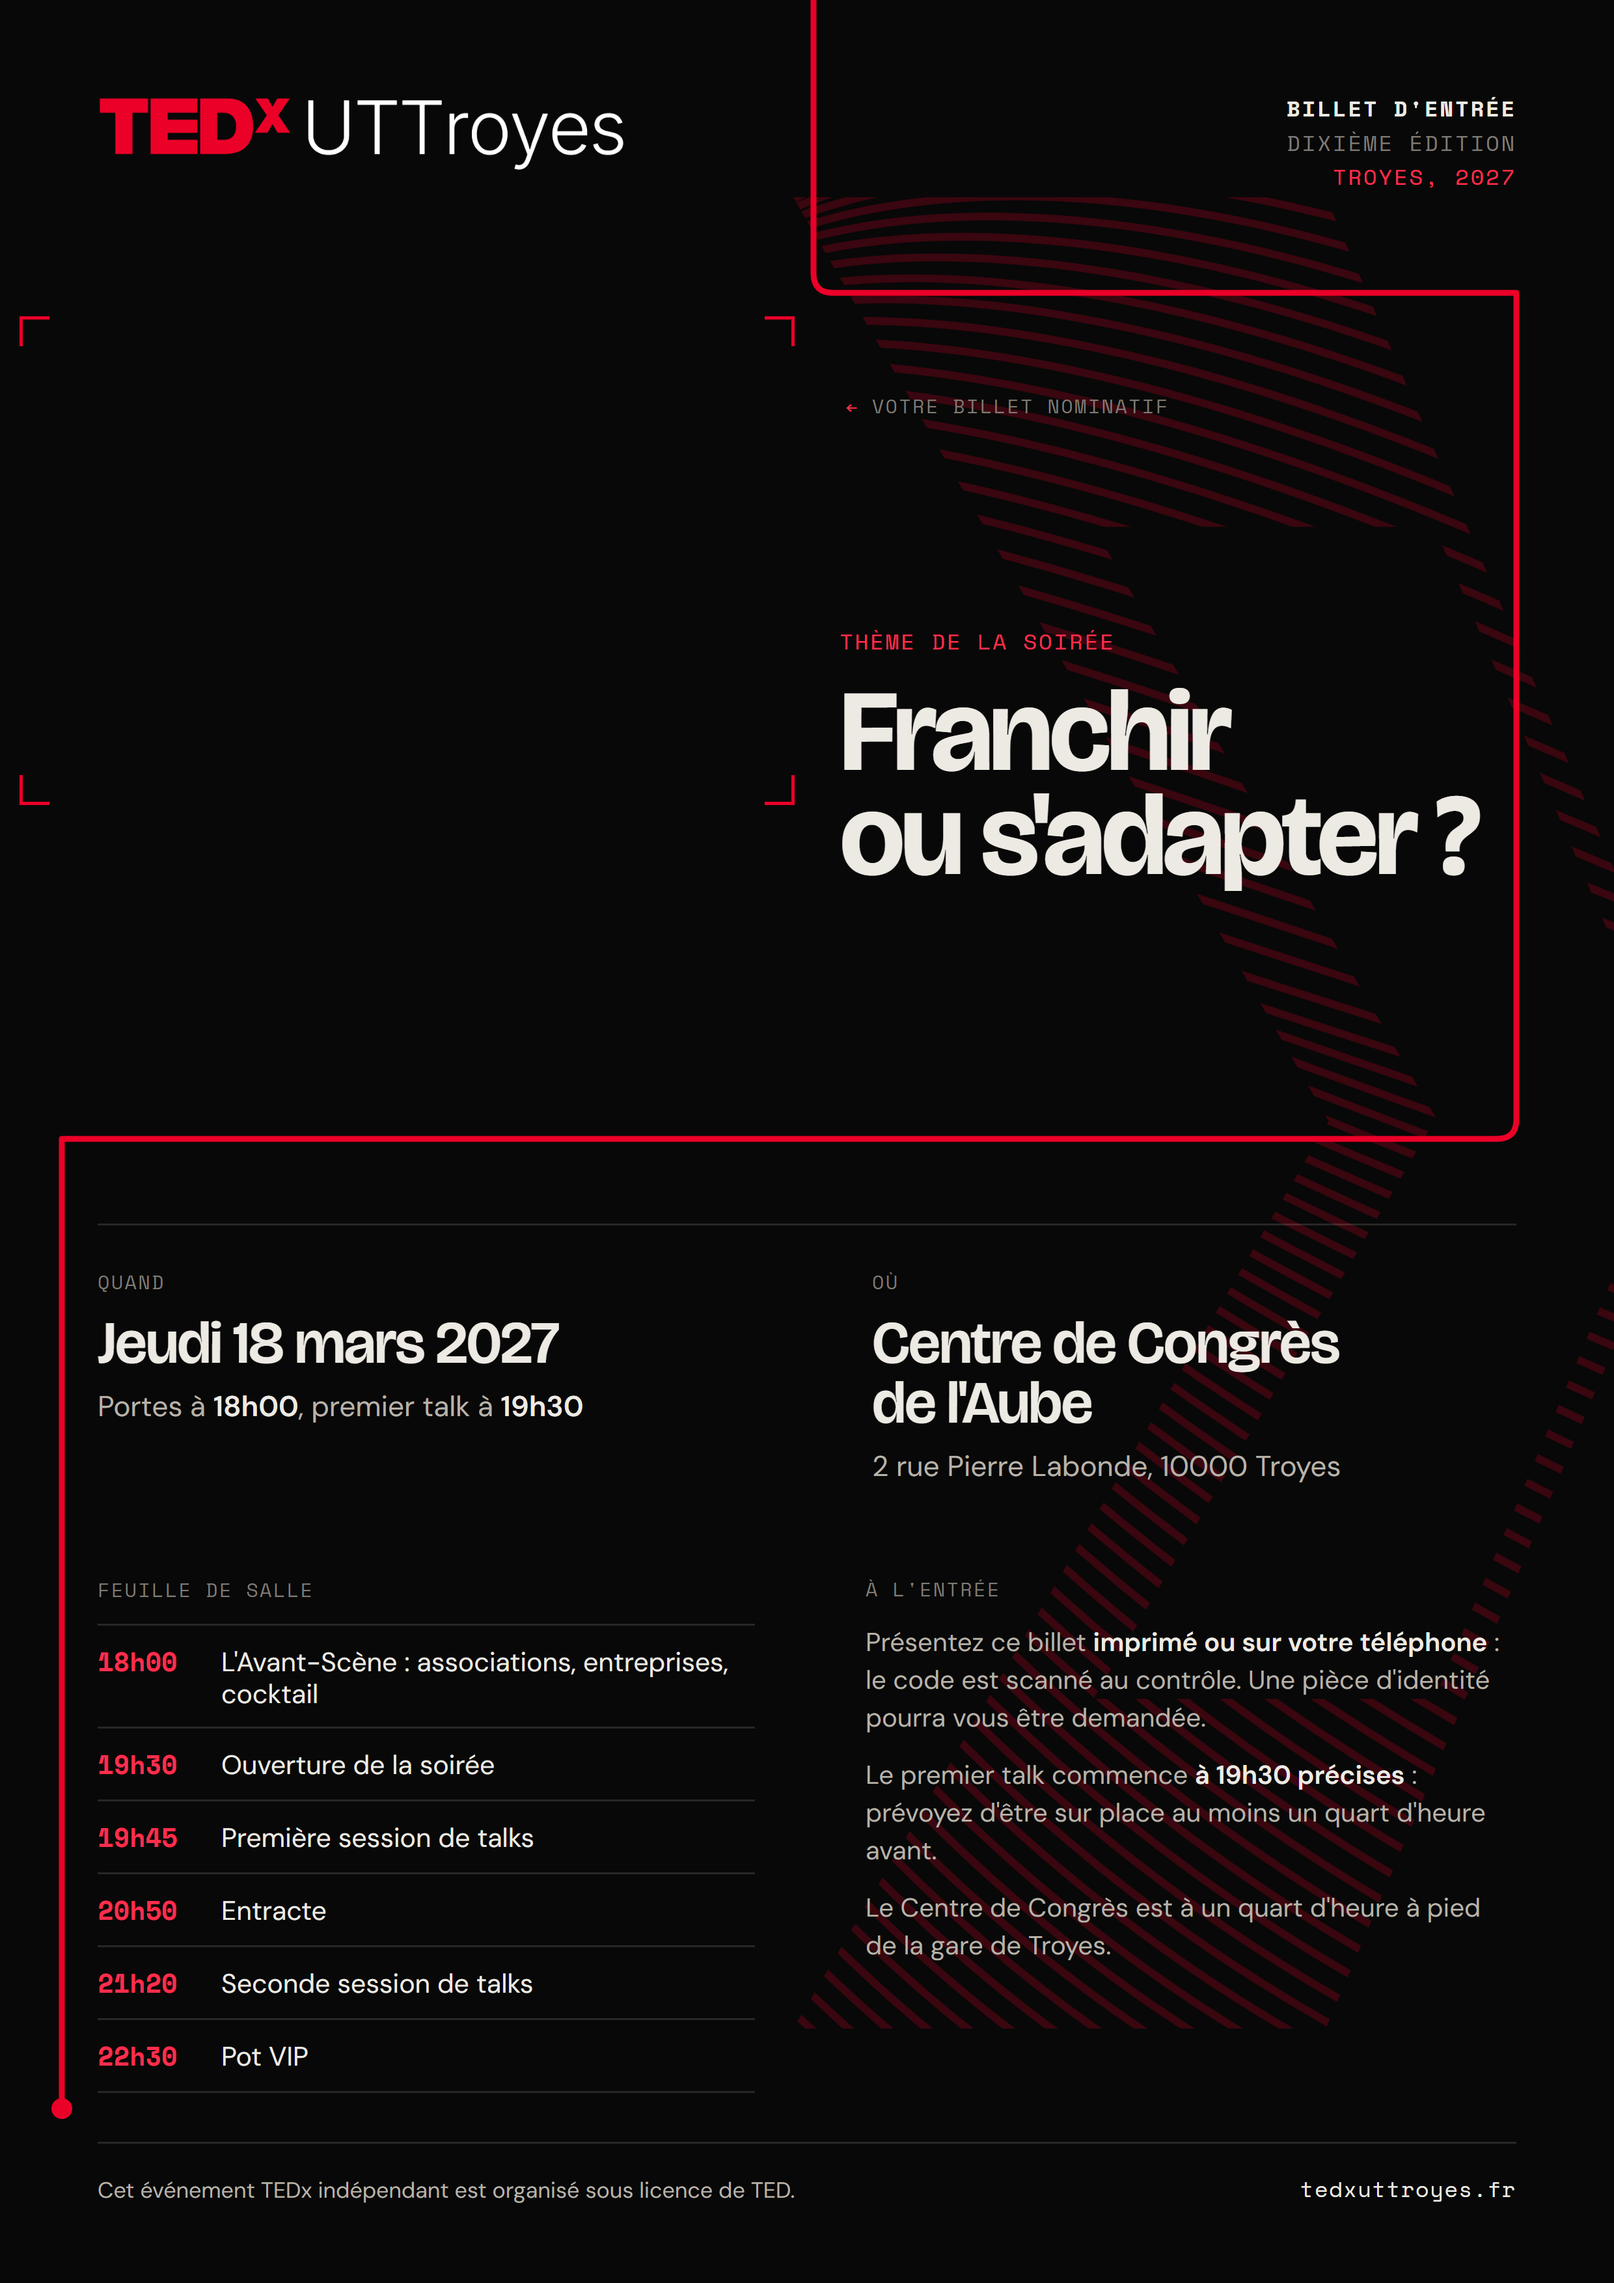
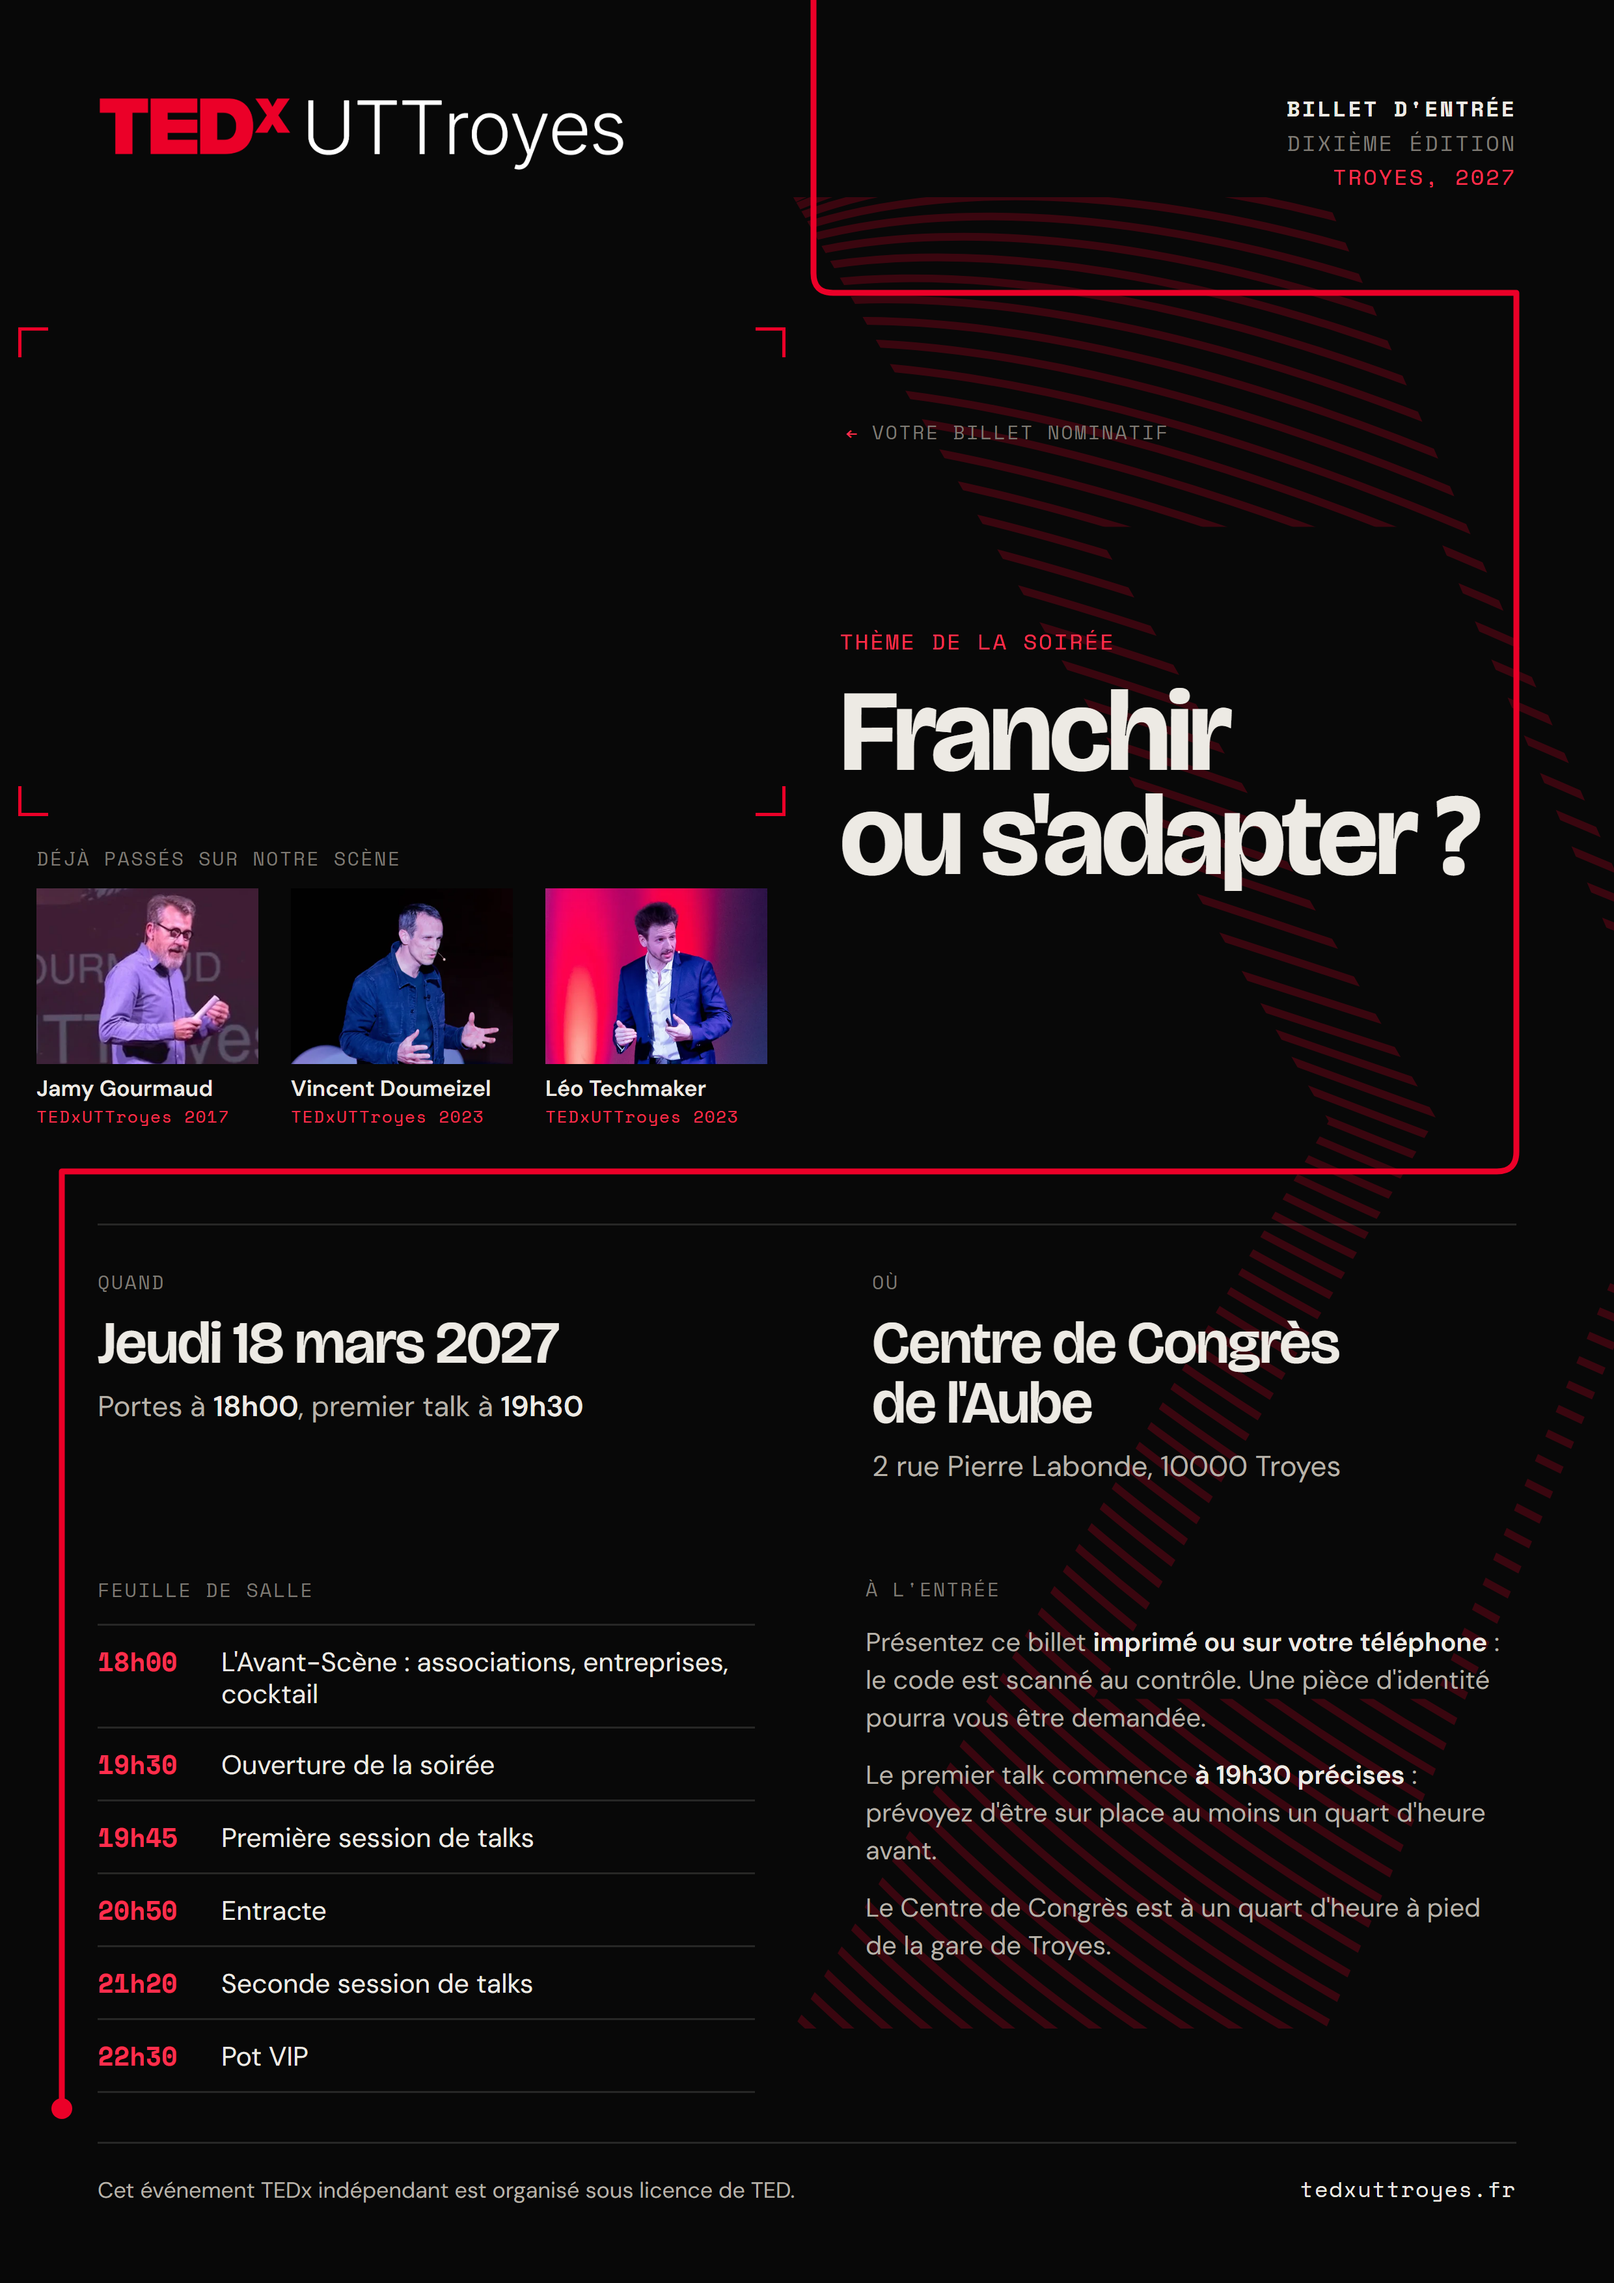
Billet : bloc Billetweb recalé et trois anciens speakers
Coins rouges recalés sur la seconde mesure du bloc Billetweb
(x 56 à 1179, y 531 à 1226). Sous le bloc, Jamy Gourmaud (2017),
Vincent Doumeizel et Léo Techmaker (2023), présentés comme déjà passés
sur la scène : les speakers 2027 restent sous embargo.

Changed region(s): [[0.0, 0.3729, 0.9315, 0.5282], [0.4657, 0.1243, 0.4968, 0.1554]]

diff --git a/design/billet/billet.html b/design/billet/billet.html
@@ -33,16 +33,23 @@ svg.ligne { position: absolute; inset: 0; width: 2480px; height: 3508px; }
 .tete .ref .r { color: var(--rouge-vif); }
 
 .cote { position: absolute; width: 46px; height: 46px; border-color: var(--rouge); border-style: solid; border-width: 0; }
-.c1 { left: 30px; top: 486px; border-top-width: 5px; border-left-width: 5px; }
-.c2 { left: 1175px; top: 486px; border-top-width: 5px; border-right-width: 5px; }
-.c3 { left: 30px; top: 1191px; border-bottom-width: 5px; border-left-width: 5px; }
-.c4 { left: 1175px; top: 1191px; border-bottom-width: 5px; border-right-width: 5px; }
-.zone-lbl { position: absolute; left: 1300px; top: 600px; font-size: 30px; color: var(--encre-2); line-height: 1.6; }
+.c1 { left: 28px; top: 503px; border-top-width: 5px; border-left-width: 5px; }
+.c2 { left: 1161px; top: 503px; border-top-width: 5px; border-right-width: 5px; }
+.c3 { left: 28px; top: 1208px; border-bottom-width: 5px; border-left-width: 5px; }
+.c4 { left: 1161px; top: 1208px; border-bottom-width: 5px; border-right-width: 5px; }
+.zone-lbl { position: absolute; left: 1300px; top: 640px; font-size: 30px; color: var(--encre-2); line-height: 1.6; }
 .zone-lbl span { color: var(--rouge-vif); }
 
 .titre { position: absolute; left: 1290px; right: var(--m); top: 960px; }
 .titre .k { font-size: 34px; color: var(--rouge-vif); margin-bottom: 34px; }
 .titre h1 { font-family: "Bricolage", sans-serif; font-weight: 700; color: var(--papier); font-size: 178px; line-height: .9; letter-spacing: -.035em; }
+
+.scene { position: absolute; left: 56px; width: 1123px; top: 1296px; }
+.scene .lbl { font-size: 30px; color: var(--encre-2); margin-bottom: 24px; }
+.scene ul { list-style: none; display: grid; grid-template-columns: repeat(3, 1fr); column-gap: 50px; }
+.scene img { display: block; width: 100%; height: 270px; object-fit: cover; object-position: 50% 18%; }
+.scene .n { font-size: 34px; color: var(--papier); font-weight: 600; line-height: 1.15; margin-top: 18px; white-space: nowrap; }
+.scene .a { font-family: "Mono", monospace; font-size: 26px; color: var(--rouge-vif); letter-spacing: .06em; margin-top: 4px; }
 
 .quand { position: absolute; left: var(--m); right: var(--m); top: 1880px; display: grid; grid-template-columns: 1fr 1fr; column-gap: 200px; border-top: 3px solid var(--filet); padding-top: 64px; }
 .quand .lbl { font-size: 30px; color: var(--encre-2); margin-bottom: 26px; }
@@ -70,7 +77,7 @@ svg.ligne { position: absolute; inset: 0; width: 2480px; height: 3508px; }
   <img class="fond" src="../../public/assets/img/logo-10e.svg" alt="">
 
   <svg class="ligne" viewBox="0 0 2480 3508">
-    <path d="M1250 0 V420 Q1250 450 1280 450 H2330 V1720 Q2330 1750 2300 1750 H95 V3230" />
+    <path d="M1250 0 V420 Q1250 450 1280 450 H2330 V1770 Q2330 1800 2300 1800 H95 V3230" />
     <circle cx="95" cy="3240" r="16" />
   </svg>
 
@@ -85,6 +92,15 @@ svg.ligne { position: absolute; inset: 0; width: 2480px; height: 3508px; }
 
   <div class="cote c1"></div><div class="cote c2"></div><div class="cote c3"></div><div class="cote c4"></div>
   <p class="zone-lbl mono"><span>&larr;</span> Votre billet nominatif</p>
+
+  <section class="scene">
+    <p class="lbl mono">Déjà passés sur notre scène</p>
+    <ul>
+      <li><img src="../../public/assets/img/editions/2017/speakers/jamy-gourmaud.webp" alt=""><p class="n">Jamy Gourmaud</p><p class="a">TEDxUTTroyes 2017</p></li>
+      <li><img src="../../public/assets/img/editions/2023/speakers/vincent-doumeizel.webp" alt=""><p class="n">Vincent Doumeizel</p><p class="a">TEDxUTTroyes 2023</p></li>
+      <li><img src="../../public/assets/img/editions/2023/speakers/leo-techmaker.webp" alt=""><p class="n">Léo Techmaker</p><p class="a">TEDxUTTroyes 2023</p></li>
+    </ul>
+  </section>
 
   <div class="titre">
     <p class="k mono">Thème de la soirée</p>

diff --git a/design/billet/README.md b/design/billet/README.md
@@ -5,7 +5,9 @@ Fond de billet personnalisé, modèle « Pleine page » de Billetweb (page « Vi
 - `tedxuttroyes-2027-billet-full.png` : le fichier à charger, A4 à 300 dpi (2480 x 3508 px). Billetweb exige « full » dans le nom.
 - `billet.html` : la source. Polices, couleurs et logos viennent de `public/assets/`.
 
-Billetweb ajoute son bloc (nom, tarif, QR code, mentions) en haut à gauche, sans qu'on puisse le déplacer dans ce modèle. Les quatre coins rouges l'encadrent, d'après son emplacement mesuré sur l'aperçu Billetweb du 2026-11-02 : x 63 à 1188, y 519 à 1204.
+Billetweb ajoute son bloc (nom, tarif, QR code, mentions) en haut à gauche, sans qu'on puisse le déplacer dans ce modèle. Les quatre coins rouges l'encadrent, d'après son emplacement mesuré sur l'aperçu Billetweb du 2026-11-02 (seconde mesure) : x 56 à 1179, y 531 à 1226.
+
+Sous le bloc, trois anciens speakers (Jamy Gourmaud 2017, Vincent Doumeizel et Léo Techmaker 2023), présentés comme « déjà passés sur notre scène » : les speakers 2027 restent sous embargo, le billet ne doit pas laisser croire que ces trois-là reviennent. Portraits repris de `public/assets/img/editions/`.
 
 Le billet porte le thème et la date en clair : ne pas le charger sur Billetweb avant la révélation du mardi 3 novembre 2026 à 16h00.
 
